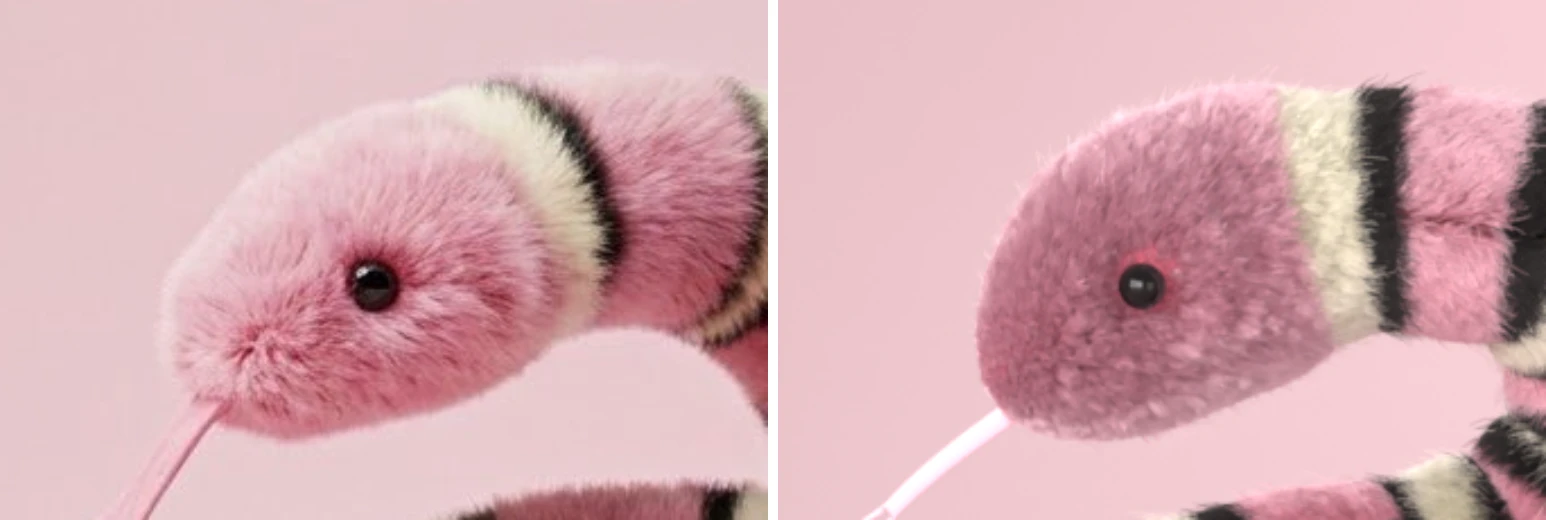
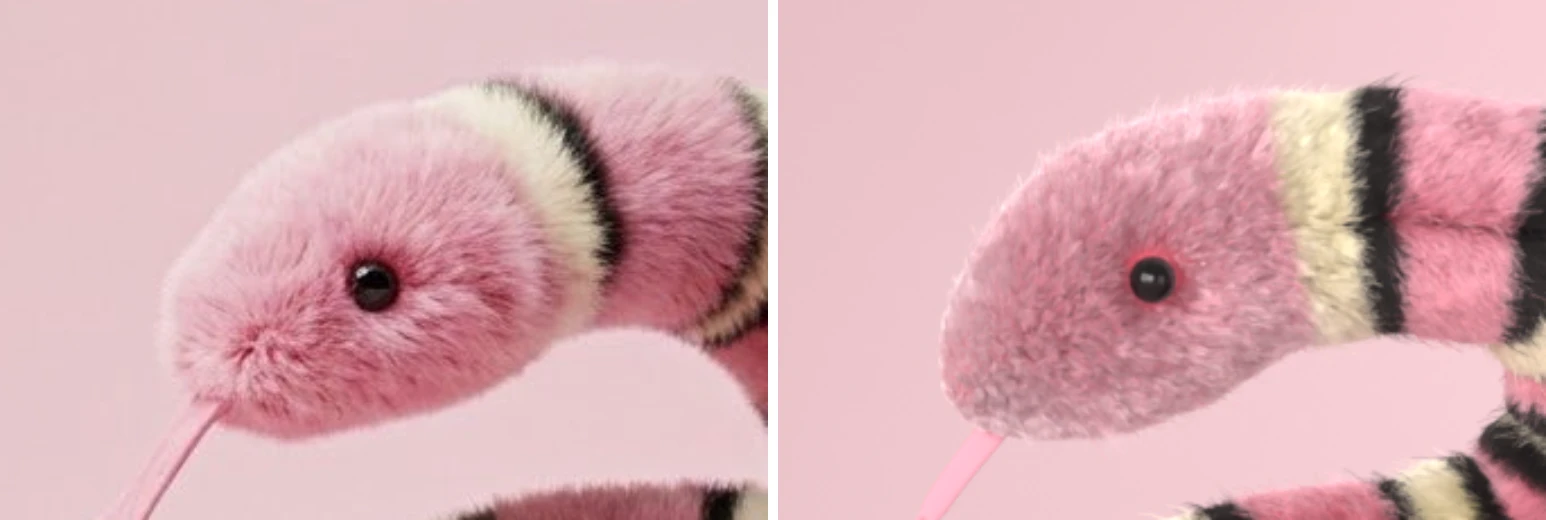
Snake head: photo pink, blunt round muzzle, matte pink tongue
- head contour refit to the photo silhouette (within 3 px): nose 0.17 D
  further forward, back of the head eases into the neck
- head fur lighter pink than the body, no root darkening, soft frosted tips
- tongue: wider flat fork, matte, ~#E9A7B5 on screen, drops ~50 deg
- 8 glossy bounces (light fur went grey with 6); colours recalibrated
- montages updated

Changed region(s): [[0.5589, 0.1538, 1.0, 1.0], [0.7451, 0.6769, 1.0, 1.0], [0.8072, 0.1538, 0.8383, 0.1846]]

diff --git a/blender/snake_scene.py b/blender/snake_scene.py
@@ -53,8 +53,9 @@ rng = np.random.default_rng(11)
 # ======================================================================================== photo measurements
 W_PX, H_PX = 1408, 768
 # centre line, snout (skin tip) -> tail, in photo pixels
+NOSE_OLD_PX = (385, 257)   # the snout tip of the first fit; the photo nose reaches ~17 px further (blunt muzzle)
 PATH_PX = [
-    (385, 257), (412, 252), (443, 239), (483, 222), (532, 203), (587, 205), (628, 209), (653, 221),
+    (368, 260), (412, 252), (443, 239), (483, 222), (532, 203), (587, 205), (628, 209), (653, 221),
     (678, 253), (678, 300), (655, 343), (610, 368), (550, 378), (500, 386), (455, 407), (428, 450),
     (430, 505), (458, 560), (505, 592), (565, 592), (615, 568), (655, 525), (688, 470), (712, 410),
     (738, 335), (768, 270), (810, 218), (868, 192), (925, 212), (965, 239), (982, 282), (978, 335),
@@ -88,8 +89,11 @@ NB = 56                     # spine bones behind the head
 N_AROUND = 32
 # calibrated against the photo (mean linear colour of pink / cream / black pixels, photo vs render)
 # light tones are fed more saturated: the hair model washes pale colours out toward grey
-COL = dict(pink='#CB7582', pink_deep='#AC4D5A', muzzle='#D6808E', eye_ring='#A05663',
-           cream='#EFCB95', black='#060202', tongue='#F0B5C3', skin_dark=0.72)
+# head: photo head pixels average (208, 142, 154), ~12 % lighter than the body, with pale frosted tips
+# tongue: fed darker than its on-screen colour (#E9A7B5) because the key + softbox light it brightly
+# (calibrated with 8 glossy bounces: fewer bounces cut the multiple scattering of light fur and it turns grey)
+COL = dict(pink='#BC6C78', pink_deep='#A0474F', head='#E0727F', muzzle='#E68C97', frost='#F9D0D3',
+           eye_ring='#B0606F', cream='#E2BC88', black='#060202', tongue='#CC8E9C', skin_dark=0.72)
 
 
 def hex2lin(h):
@@ -191,6 +195,11 @@ P2 = np.array([project(p) for p in path[::5]])
 S2 = S_PATH[::5]
 # arc length of every control point (to restrict ring lookups to the right stretch of body)
 S_CTRL = np.array([S_PATH[np.argmin(np.linalg.norm(path - c, axis=1))] for c in ctrl])
+# head measurements below are taken from the first-fit nose; NOSE_EXT is how far the blunt snout reaches past it
+_o, _d = ray(*NOSE_OLD_PX)
+NOSE_EXT = float(S_PATH[np.argmin(np.linalg.norm(path - (_o + _d * (-_o[1] / _d[1])), axis=1))])
+HEAD_LEN = 1.30 + NOSE_EXT
+log('nose extension %.3f D, head bone %.3f D' % (NOSE_EXT, HEAD_LEN))
 
 
 def ring_s():
@@ -211,17 +220,19 @@ log('rings at s =', np.round(RING_S, 2))
 def head_profile(s):
     """outer half height, half width and centre offset (z) at arc length s (snout tip = 0)"""
     s = np.asarray(s, float)
-    # Egg-shaped head measured on the photo: ~1.3 D tall from 0.5 to 1.15 D behind the nose, the front is the
-    # rounded end of an ellipse (no flat face), the axis dips toward the nose (nose low, forehead sloping down
-    # to it), then the head narrows into the neck by ~1.75 D.
-    HEAD_H, HEAD_W, EGG_C, EGG_A = 0.59, 0.56, 0.95, 0.95
-    q = np.clip((EGG_C - s) / EGG_A, 0, 1)
-    egg = np.sqrt(1 - q * q)                                                # rounded front of the egg
-    neck = sstep(1.15, 1.75, s)
+    u = s - NOSE_EXT                    # measured from the first-fit nose (photo columns were compared there)
+    # Round, chubby head measured on the photo silhouette: the front is the rounded end of an ellipse reaching
+    # NOSE_EXT past the first-fit nose (short blunt muzzle), the axis dips toward the nose (nose low, forehead
+    # sloping down to it), the crown is ~1.12 D tall around 0.75-0.9 D and the back of the head eases into the
+    # neck by ~1.35 D (the photo head is not taller at the back than over the eye).
+    HEAD_H, HEAD_W, EGG_C = 0.56, 0.58, 0.90
+    q = np.clip((EGG_C - u) / (EGG_C + NOSE_EXT), 0, 1)
+    egg = np.sqrt(1 - q * q)                                                # rounded front
+    back = sstep(0.75, 1.35, u)                                             # back of the head -> neck
     base = outer_radius(s, L)
-    hh = HEAD_H * egg * (1 - neck) + base * neck
-    ww = HEAD_W * egg * (1 - neck) + base * neck
-    cz = (-0.03 - 0.20 * np.clip(1 - s / EGG_C, 0, 1) ** 1.5) * (1 - neck)
+    hh = HEAD_H * egg * (1 - back) + base * back
+    ww = HEAD_W * egg * (1 - back) + base * back
+    cz = (-0.03 - 0.20 * q ** 1.5) * (1 - back)
     te = np.clip((L - s) / 0.35, 0, 1)
     rt2 = np.sqrt(1 - (1 - te) ** 2)                                        # round tail tip
     return hh * rt2, ww * rt2, cz
@@ -238,7 +249,7 @@ def skin_point(s, th):
     return np.stack([np.asarray(s, float) * np.ones_like(th), w * np.cos(th), cz + h * np.sin(th)], -1)
 
 
-EYE_S, EYE_Z, EYE_R = 0.81, -0.05, 0.10          # photo: eye on the head axis, 0.81 D behind the nose
+EYE_S, EYE_Z, EYE_R = NOSE_EXT + 0.86, -0.05, 0.10   # photo: eye on the head axis, ~1.0 D behind the nose tip
 
 
 def eye_pos(sign):
@@ -256,12 +267,13 @@ def surface_color(s, th, P):
     col = np.tile(hex2lin(COL['pink']), (n, 1))
     deep = (0.35 * sstep(0.2, -0.7, np.sin(th)))[:, None]                 # deeper rose low on the sides
     col = col * (1 - deep) + hex2lin(COL['pink_deep']) * deep
-    head = (0.75 * (1 - sstep(1.2, 1.6, s)))[:, None]                    # the head is a touch lighter
-    col = col * (1 - head) + hex2lin(COL['muzzle']) * head
-    muz = (1 - sstep(0.10, 0.42, s))[:, None]                             # pale muzzle
+    u = s - NOSE_EXT
+    head = (1 - sstep(1.2, 1.6, u))[:, None]                              # the head is lighter than the body
+    col = col * (1 - head) + hex2lin(COL['head']) * head
+    muz = (1 - sstep(0.0, 0.40, u))[:, None]                              # pale muzzle
     col = col * (1 - muz) + hex2lin(COL['muzzle']) * muz
     de = np.min([np.linalg.norm(P - e, axis=1) for e in EYES], axis=0)
-    ring = (0.6 * (1 - sstep(EYE_R * 1.05, EYE_R * 1.9, de)))[:, None]   # darker ring round the eye
+    ring = (0.45 * (1 - sstep(EYE_R * 1.05, EYE_R * 1.9, de)))[:, None]  # rosier ring round the eye
     col = col * (1 - ring) + hex2lin(COL['eye_ring']) * ring
     d = s[:, None] - RING_S[None, :]
     k = np.argmin(np.abs(d), axis=1)
@@ -281,7 +293,7 @@ scene.render.engine = 'CYCLES'
 S_RINGS = [0.0]
 while S_RINGS[-1] < L - 1e-6:
     s = S_RINGS[-1]
-    S_RINGS.append(min(s + (0.045 if s < 1.8 else (0.13 if s < L - 1.0 else 0.06)), L))
+    S_RINGS.append(min(s + (0.045 if s < 1.8 + NOSE_EXT else (0.13 if s < L - 1.0 else 0.06)), L))
 S_RINGS = np.array(S_RINGS)
 TH = -math.pi / 2 + np.arange(N_AROUND) * 2 * math.pi / N_AROUND        # starts at the belly line
 bm = bmesh.new()
@@ -346,10 +358,11 @@ for i in range(NB):
     b.parent = prev; b.use_connect = True
     prev = b
     bone_names.append(b.name)
-jb = eb.new('Jaw'); jb.head = (0.95, 0, -0.18); jb.tail = (0.12, 0, -0.30); jb.parent = hb_
+jb = eb.new('Jaw'); jb.head = (0.95 + NOSE_EXT, 0, -0.18); jb.tail = (0.12 + NOSE_EXT, 0, -0.30); jb.parent = hb_
 # tongue: short bone at the mouth; scaling it pulls the tongue in / pushes it out
-TONGUE_ANG = math.radians(14)
-TONGUE_BASE = (0.10, 0.0, float(head_profile(0.08)[2]) - 0.16)
+TONGUE_ANG = math.radians(30)                     # photo: the tongue drops ~50 deg below the horizon
+_hh, _ww, _cz = head_profile(NOSE_EXT + 0.05)     # mouth: under the blunt snout
+TONGUE_BASE = (NOSE_EXT + 0.05, 0.0, float(_cz - _hh) + 0.12)
 tb = eb.new('Tongue'); tb.head = TONGUE_BASE
 tb.tail = (TONGUE_BASE[0] - 0.05 * math.cos(TONGUE_ANG), 0.0, TONGUE_BASE[2] - 0.05 * math.sin(TONGUE_ANG))
 tb.parent = hb_
@@ -451,7 +464,7 @@ for name, e in (('EyeL', EYES[0]), ('EyeR', EYES[1])):
 def tongue_mesh():
     """flat forked ribbon in the rest frame of the head: leaves the mouth forward (-X) and down"""
     bx, bz = TONGUE_BASE[0], TONGUE_BASE[2]
-    length, width, ang, n, fork = 0.95, 0.11, TONGUE_ANG, 14, 0.72
+    length, width, ang, n, fork = 0.95, 0.14, TONGUE_ANG, 14, 0.64
     verts, faces, rows = [], [], []
     for i in range(n + 1):
         t = i / n
@@ -464,7 +477,7 @@ def tongue_mesh():
             offs = (-w / 2, w / 2)
         else:
             f = (t - fork) / (1 - fork)
-            sp, w = 0.09 * f, width * 0.45 * (1 - 0.8 * f)
+            sp, w = 0.13 * f, width * 0.5 * (1 - 0.7 * f)
             offs = (-sp - w / 2, -sp + w / 2, sp - w / 2, sp + w / 2)
         verts += [(x + nx * o, 0.0, z + nz * o) for o in offs]
     for i in range(n):
@@ -483,7 +496,7 @@ def tongue_mesh():
 
 
 tme = tongue_mesh()
-tme.materials.append(mat_principled('Tongue', hex2lin(COL['tongue']), 0.35, spec=0.6))
+tme.materials.append(mat_principled('Tongue', hex2lin(COL['tongue']), 0.8, spec=0.25))   # matte
 tongue = bpy.data.objects.new('Tongue', tme)
 scene.collection.objects.link(tongue)
 sm_ = tongue.modifiers.new('Thick', 'SOLIDIFY'); sm_.thickness = 0.018; sm_.offset = 0
@@ -566,20 +579,25 @@ def grow_fur():
     eth = nrm(np.stack([np.zeros(n), -np.sin(th), np.cos(th)], 1))
     part = (0.75 * np.clip(np.cos(2 * th), 0, 1) * np.sign(np.sin(2 * th)) * sstep(1.4, 2.2, s))[:, None]
     d = ex + eth * part
+    u = s - NOSE_EXT
     snout = np.array([-0.05, 0, float(head_profile(0.0)[2])])
-    hd = (1 - sstep(1.0, 1.6, s))[:, None]
+    hd = (1 - sstep(1.0, 1.6, u))[:, None]
     d = d * (1 - hd) + (nrm(P - snout) * 0.6 + ex * 1.0) * hd
     for e in EYES:
         de = np.linalg.norm(P - e, axis=1)
         d += nrm(P - e) * (1.4 * (1 - sstep(EYE_R * 1.1, EYE_R * 3.0, de)))[:, None]
     d = nrm(d - (d * N).sum(1, keepdims=True) * N)
-    fl = fur_scale(hh, ww) * FUR * FUR_STRAND * (0.82 + 0.18 * sstep(0.05, 0.45, s))   # shorter on the muzzle
-    fl *= 1 + 0.25 * (1 - sstep(1.2, 1.6, s))                    # fluffier pile on the head
+    fl = fur_scale(hh, ww) * FUR * FUR_STRAND * (0.82 + 0.18 * sstep(-0.1, 0.45, u))  # shorter on the muzzle
+    fl *= 1 + 0.25 * (1 - sstep(1.2, 1.6, u))                    # fluffier pile on the head
     for e in EYES:
         fl *= 0.06 + 0.94 * sstep(EYE_R * 1.2, EYE_R * 3.0, np.linalg.norm(P - e, axis=1))
     col = surface_color(s, th, P) * rng.uniform(0.88, 1.1, (n, 1))
-    hw = 1 - sstep(1.2, 1.6, s)                                   # the head pile stands up more (fluffier)
-    shade = sstep(0.15, 0.55, s) * (1 - 0.9 * hw)                 # little root darkening on the head, none on the muzzle
+    hw = 1 - sstep(1.2, 1.6, u)                                   # the head pile stands up more (fluffier)
+    # frosted head: on the photo a share of the head strands is almost white-pink (p80 of the head ~ 235,206,210)
+    de = np.min([np.linalg.norm(P - e, axis=1) for e in EYES], axis=0)
+    fr = hw * sstep(EYE_R * 1.3, EYE_R * 2.4, de) * np.where(rng.random(n) < 0.6, rng.uniform(0.2, 0.55, n), 0.0)
+    col = col * (1 - fr[:, None]) + hex2lin(COL['frost']) * fr[:, None]
+    shade = sstep(1.3, 1.8, u)                                    # no root darkening on the head (reads as dirt)
     lean = (0.3 - 0.15 * hw, 1.1 - 0.4 * hw)
     return P, N, d, fl, col, UV, shade, lean
 
@@ -681,7 +699,9 @@ area_light('Back', (2, 12, floor_z + 9), mid, 1500, 8, (1.0, 0.96, 0.96))
 scene.cycles.samples = SAMPLES
 scene.cycles.use_denoising = True
 scene.cycles.denoiser = 'OPENIMAGEDENOISE'
-scene.cycles.max_bounces = 6
+BOUNCES = int(arg('--bounces', 8))      # hair counts as glossy: light fur needs several bounces to stay light
+scene.cycles.max_bounces = BOUNCES
+scene.cycles.glossy_bounces = BOUNCES
 scene.cycles.transparent_max_bounces = 16
 scene.cycles_curves.shape = 'THICK'
 scene.view_settings.view_transform = 'Standard'

diff --git a/blender/README.md b/blender/README.md
@@ -17,7 +17,7 @@ blender -b --factory-startup --python blender/snake_scene.py -- --render --previ
 ```
 
 Опции после `--`: `--blend <путь>`, `--density <ворсинок на D²>` (по умолчанию 36000, это около 2,7 млн
-ворсинок), `--samples <n>` (160), `--no-hair`, `--cpu`, `--exposure`, `--key`, `--fill`, `--ambient`.
+ворсинок), `--samples <n>` (160), `--bounces <n>` (8), `--no-hair`, `--cpu`, `--exposure`, `--key`, `--fill`, `--ambient`.
 Полная сборка с рендером на RTX 4050 Laptop занимает около минуты.
 
 `.blend` с волосами в репозиторий не кладём: он большой и пересобирается скриптом.
@@ -36,8 +36,14 @@ blender -b --factory-startup --python blender/snake_scene.py -- --render --previ
 | `CamHero` | камера, совпадающая с фото: 85 мм, наклон 7° вниз, 1 D ≈ 104 px у букв |
 | `Sweep`, `Key`, `Beauty`, `Fill`, `Back` | бесшовный пудрово-розовый фон, мягкий ключевой свет слева сверху, большой софтбокс у камеры |
 
-Голова — «яйцо», снятое с силуэта фото (высота ~1.3 D, нос ниже оси, глаз в 0.81 D от носа); линия
-позвоночника у головы, шеи, верха «e» и хвоста выровнена по середине тела на фото.
+Голова круглая и пухлая, контур снят с силуэта фото и совпадает с ним в пределах ±3 px: короткая тупая
+мордочка, нос ниже оси, затылок не выше макушки, глаз в ~1.0 D от кончика носа. Мех головы розовый, светлее тела
+(средний цвет как у розовых пикселей головы на фото, ~208/142/154), без затемнения корней, часть ворсинок с
+бледными кончиками («иней»). Язык — плоская раздвоенная матовая лента, на экране ~#E9A7B5. Линия позвоночника у
+головы, шеи, верха «e» и хвоста выровнена по середине тела на фото.
+
+Мех считается с 8 отражениями (`--bounces`, по умолчанию 8). При меньшем числе светлый мех теряет многократное
+рассеяние и сереет; цвета `COL` откалиброваны под 8.
 
 ## Как получена поза
 
